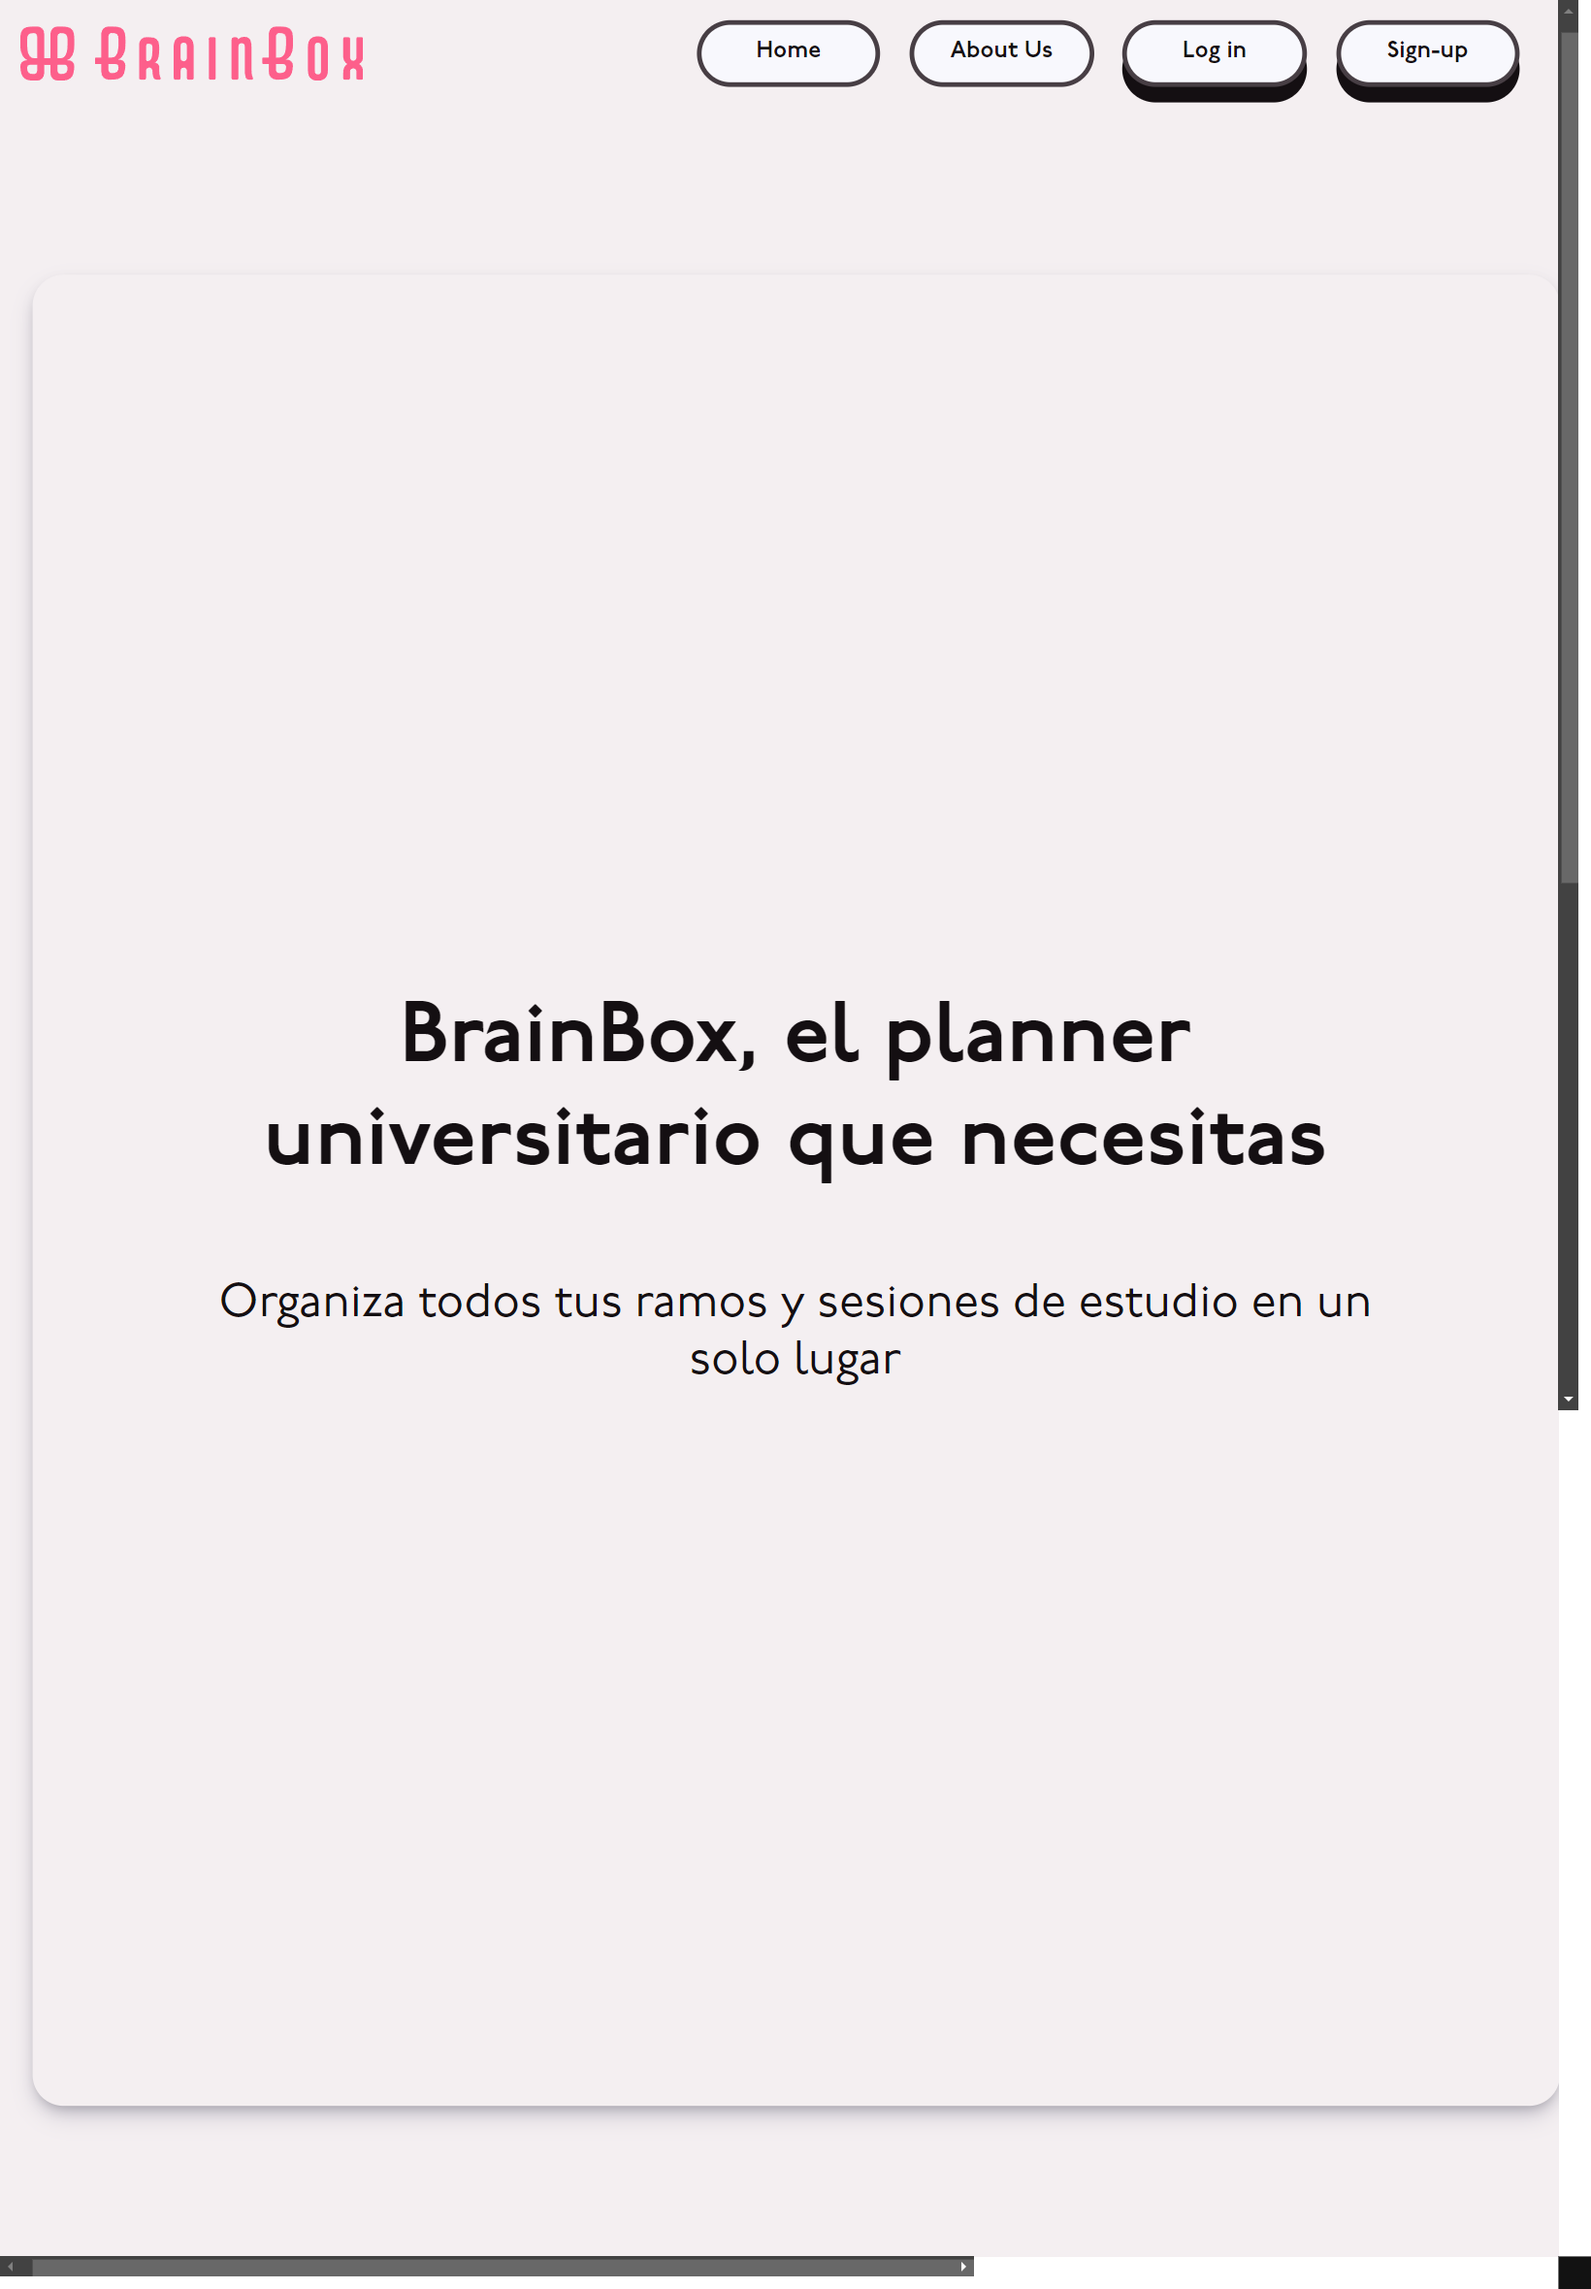
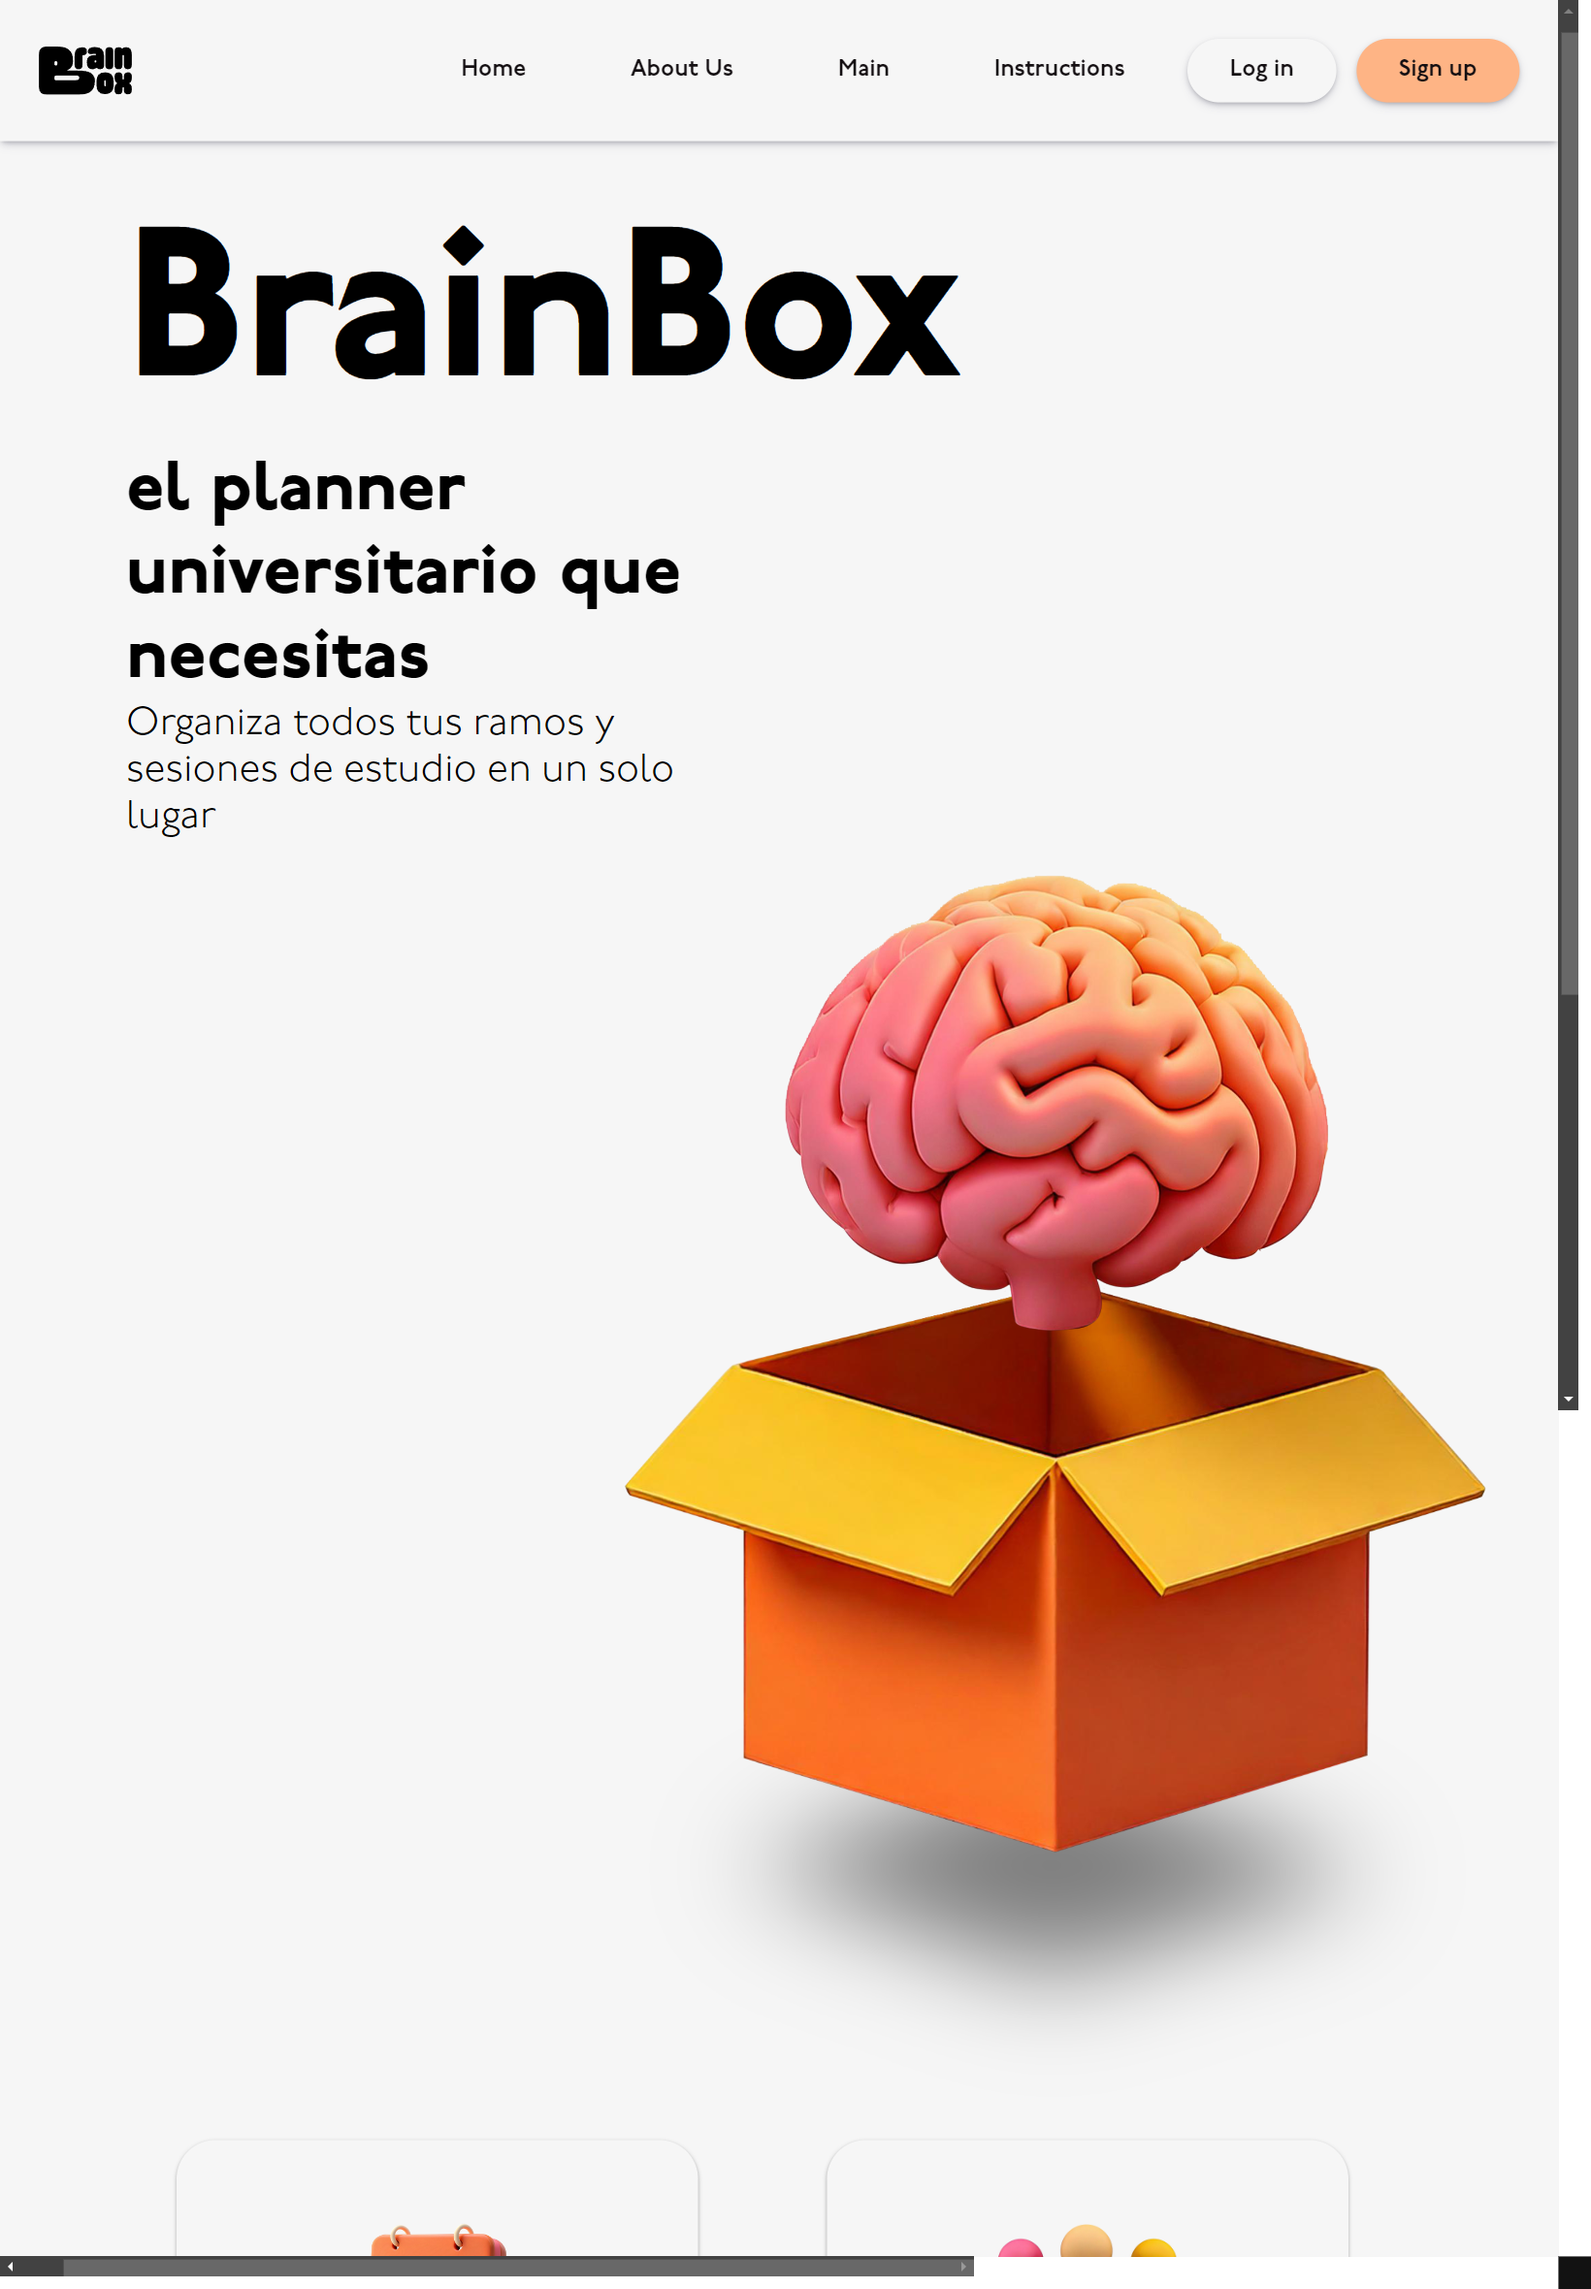
docs: update README content

diff --git a/README.md b/README.md
@@ -38,15 +38,15 @@
 
 <!-- Vistas principales -->
 ### :mag: Vistas principales
-![Vistas Principales](assets/Views/desktop-about-us.png)
-![Vistas Principales](assets/Views/desktop-landing-page.png)
-![Vistas Principales](assets/Views/desktop-log-in.jpeg)
-![Vistas Principales](assets/Views/IpadAir-about-us.png)
+![Vistas Principales](assets/Views/Desktop-about-us-page.png)
+![Vistas Principales](assets/Views/Desktop-landing-page.png)
+![Vistas Principales](assets/Views/Desktop-instructions-page.png)
+![Vistas Principales](assets/Views/IpadAir-about-us-page.png)
 ![Vistas Principales](assets/Views/IpadAir-landing-page.png)
-![Vistas Principales](assets/Views/IpadAir-log-in.png)
-![Vistas Principales](assets/Views/IphoneXR-about-us.png)
-![Vistas Principales](assets/Views/IphoneXR-landing-page.png)
-![Vistas Principales](assets/Views/IphonXR-log-in.png)
+![Vistas Principales](assets/Views/IpadAir-instructions-page.png)
+![Vistas Principales](assets/Views/IphoneSE-about-us-page.png)
+![Vistas Principales](assets/Views/IphoneSE-landing-page.png)
+![Vistas Principales](assets/Views/IphoneSE-instructions-page.png)
 
 ### Assets Externos y Referencias
 https://uiverse.io/EmmaxPlay/itchy-bobcat-50
@@ -65,5 +65,9 @@ https://www.youtube.com/watch?v=RWz23UKXdAk
 
 https://answers.netlify.com/t/problem-when-navigating-routing/98037
 
+https://codesandbox.io/p/sandbox/react-accordion-hbuc2?file=%2Fsrc%2FApp.js
+
 ### Otros
-Se usó chatgpt para ordenar código
+Se usó chatgpt para ordenar código y crear la animación del cerebro.
+
+Se usó Adobe Firefly para crear las imágenes e iconos
